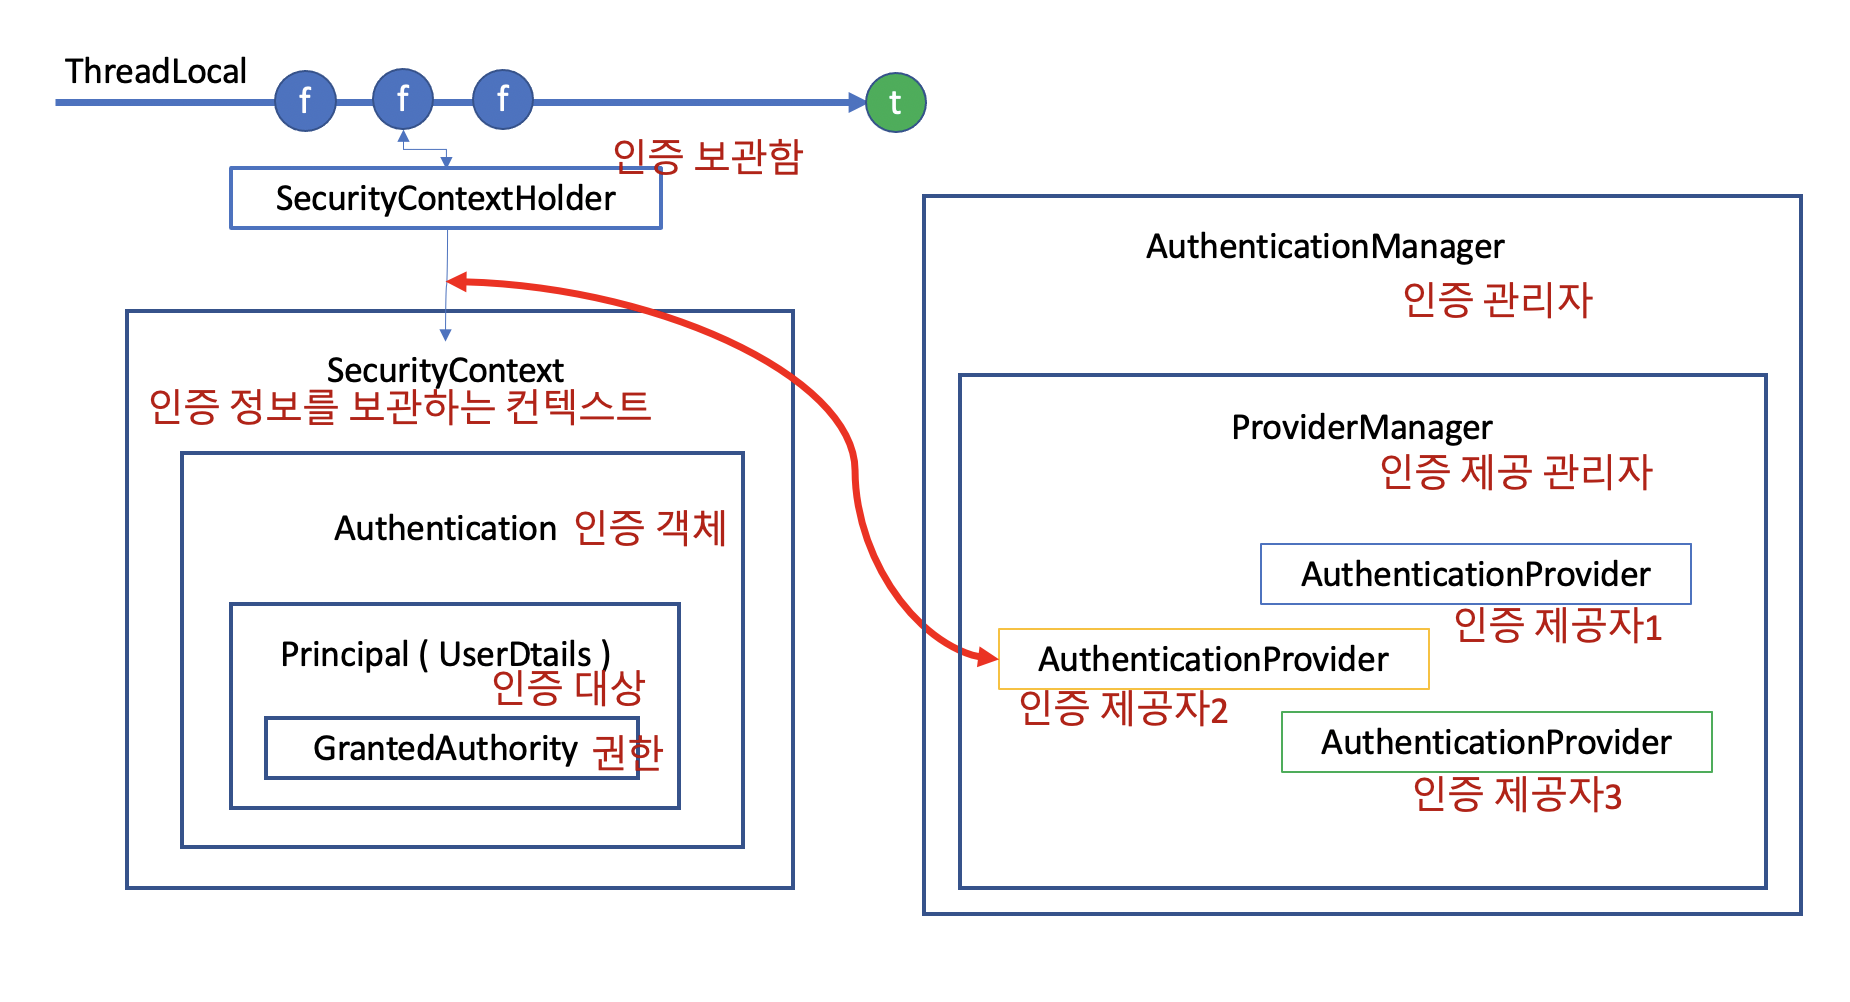
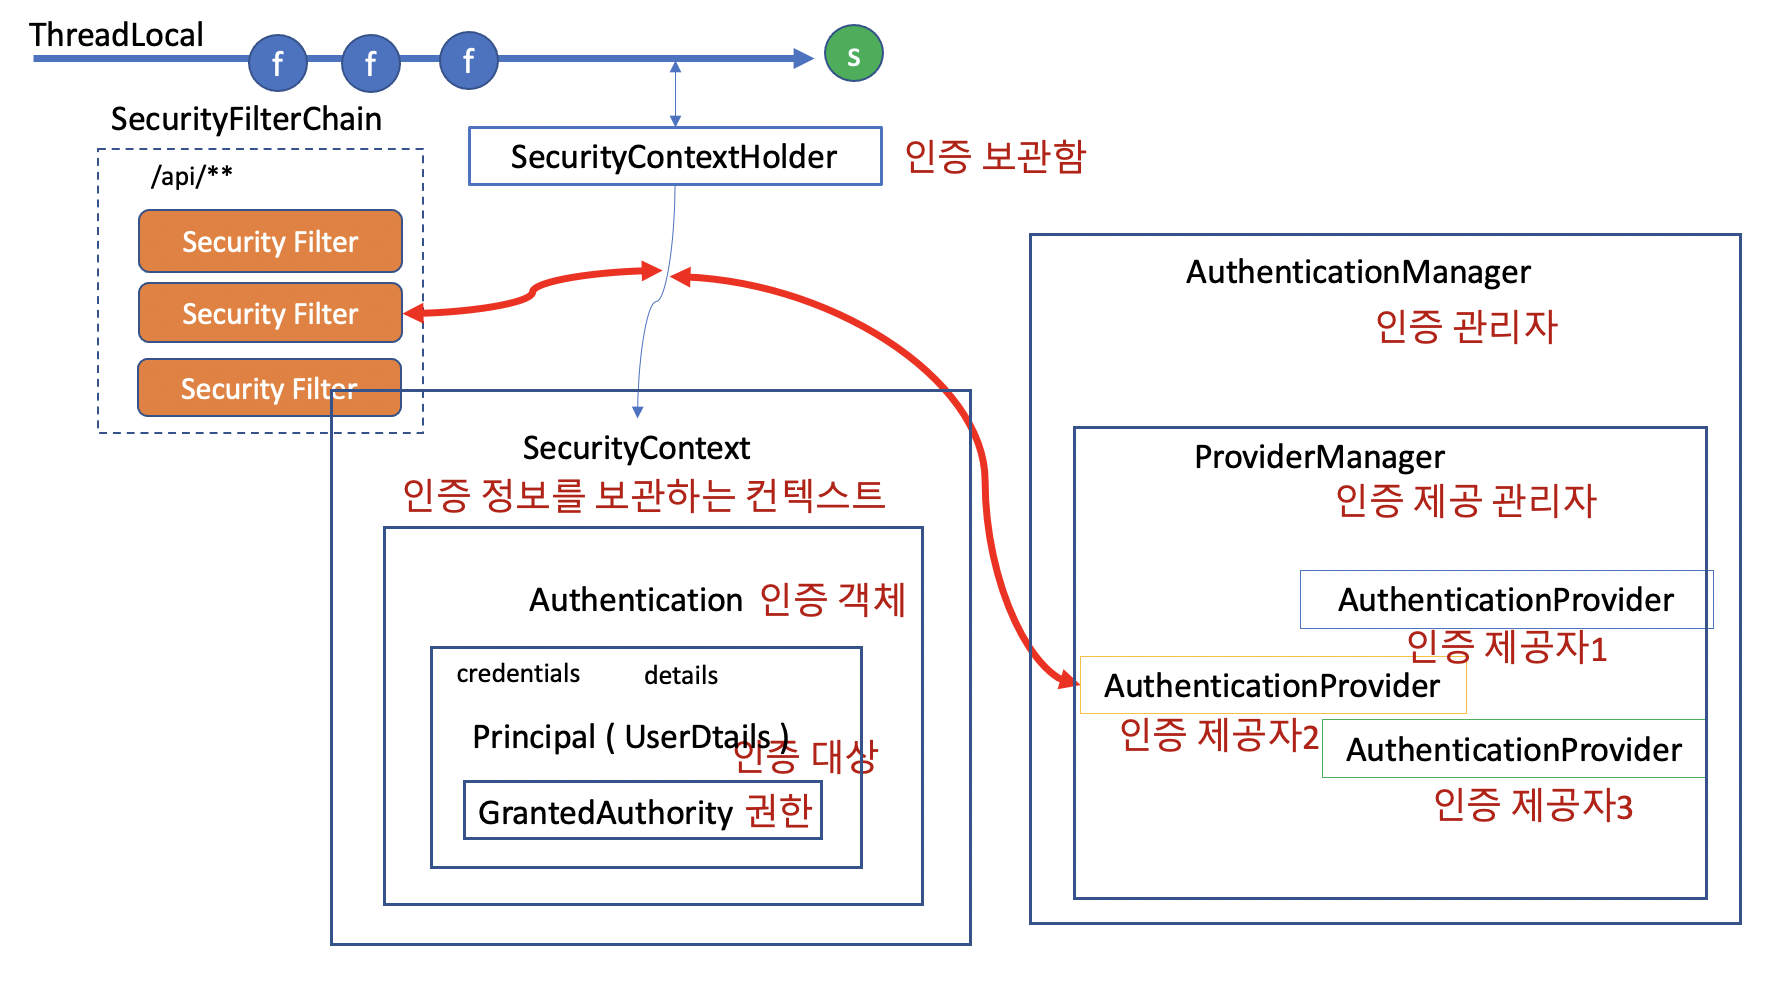
add

Changed region(s): [[0.0, 0.0, 0.9843, 0.9281], [0.1846, 0.9281, 0.2153, 0.9591]]

diff --git a/필터들/스프링시큐리티의큰그림.md b/필터들/스프링시큐리티의큰그림.md
@@ -3,13 +3,14 @@
 ## 서블릿 컨테이너
 
 - 톰켓과 괕은 웹 애플리케이션을 서블릿 컨테이너라고 부르는데, 이런 웹 애플리케이션(J2EE Application)은 기본적으로 필터와 서블릿으로 구성되어 있다.
-  ![서블릿컨테이너](../images/fig-1-servlet-container.png)
+  <img src="../images/fig-1-servlet-container.png" style="max-width:600px;width:100%;" />
+
 - 필터는 체인처럼 엮여있기 때문에 필터 체인이라고도 불리는데, 모든 request 는 이 필터 체인을 반드시 거쳐야만 서블릿 서비스에 도착하게 되어 있다.
 
 ## 스프링 시큐리티의 큰 그림
 
 - 그래서 스프링 시큐리티는 DelegatingFilterProxy 라는 필터를 만들어 메인 필터체인에 끼워넣고, 그 아래 다시 SecurityFilterChain 그룹을 등록한다.
-  ![스프링 시큐리티의 큰 그림](../images/fig-2-spring-big-picture.png)
+  <img src="../images/fig-2-spring-big-picture.png" style="max-width:600px;width:100%;" />
 
 - 이 필터체인은 반드시 한개 이상이고, url 패턴에 따라 적용되는 필터체인을 다르게 할 수 있다. 본래의 메인 필터를 반드시 통과해야만 서블릿에 들어갈 수 있는 단점을 보완하기 위해서 필터체인 Proxy 를 둔 것이다.
 -
@@ -17,7 +18,7 @@
 ## 시큐리티 필터들
 
 - 이 필터체인에는 다양한 필터들이 들어간다.
-  ![스프링 시큐리티의 큰 그림](../images/fig-4-filters.png)
+  <img src="../images/fig-4-filters.png" style="max-width:600px;width:100%;" />
 
 - 각각의 필터는 단일 필터 단일 책임(?) 원칙 처럼, 각기 서로 다른 관심사를 해결한다. 예를 들면 아래와 같다.
   - _HeaderWriterFilter_ : Http 해더를 검사한다. 써야 할 건 잘 써있는지, 필요한 해더를 더해줘야 할 건 없는가?
@@ -27,12 +28,33 @@
   - _UsernamePasswordAuthenticationFilter_ : username / password 로 로그인을 하려고 하는가? 만약 로그인이면 여기서 처리하고 가야 할 페이지로 보내 줄께.
   - _ConcurrentSessionFilter_ : 여거저기서 로그인 하는걸 허용할 것인가?
   - _BearerTokenAuthenticationFilter_ : Authentication 해더에 Bearer 토큰이 오면 인증 처리 해줄께.
-  - _BasicAuthenticationFilter_ : Authentication에 Basic 토큰을 주면 검사해서 인증처리 해줄께.
+  - _BasicAuthenticationFilter_ : Authentication 해더에 Basic 토큰을 주면 검사해서 인증처리 해줄께.
   - _RequestCacheAwareFilter_ : 방금 요청한 request 이력이 다음에 필요할 수 있으니 캐시에 담아놓을께.
-  - _SecurityContextHolderAwareRequestFilter_ :
+  - _SecurityContextHolderAwareRequestFilter_ : 보안 관련 Servlet 3 스펙을 지원하기 위한 필터라고 한다.(?)
   - _RememberMeAuthenticationFilter_ : 아직 Authentication 인증이 안된 경우라면 RememberMe 쿠키를 검사해서 인증 처리해줄께
   - _AnonymouseAuthenticationFilter_ : 아직도 인증이 안되었으면 너는 Anonymouse 사용자야
-  - _SessionManagementFilter_ :
+  - _SessionManagementFilter_ : 서버에서 지정한 세션정책을 검사할께.
   - _ExcpetionTranslationFilter_ : 나 이후에 인증이나 권한 예외가 발생하면 내가 잡아서 처리해 줄께.
   - _FilterSecurityInterceptor_ : 여기까지 살아서 왔다면 인증이 있다는 거니, 니가 들어가려고 하는 request 에 들어갈 자격이 있는지 그리고 리턴한 결과를 너에게 보내줘도 되는건지 마지막으로 내가 점검해 줄께.
+  - 그 밖에... OAuth2 나 Saml2, Cas, X509 등에 관한 필터들도 있다.
 - 필터는 넣거나 뺄 수 있고 순서를 조절할 수 있다. (이때 필터의 순서가 매우 critical 할 수 있기 때문에 기본 필터들은 그 순서가 어느정도 정해져 있다.)
+
+---
+
+## Authentication
+
+- 필터들 중에 일부 필터는 인증 정보에 관여한다. 이들 필터가 하는 일은 AuthenticationManager 를 통해 Authentication 을 인증하고 그 결과를 SecurityContextHolder 에 넣어주는 일이다.
+
+  - UsernamePasswordAuthenticationFilter
+  - BearerTokenAuthenticationFilter
+  - BasicAuthenticationFilter
+  - OAuth2LoginAuthenticationFilter
+    <img src="../images/fig-3-authentication.png" style="max-width:600px;width:100%;" />
+
+- Authentication 을 제공(Provide) 하는 인증제공자는 여러개가 동시에 존재할 수 있고, 인증 방식에 따라 ProviderManager 도 복수로 존재할 수 있다.
+- Authentication 은 인터페이스로 아래와 같은 정보들을 갖고 있다.
+  - _Set&lt;GrantedAuthority&gt; authorities_ : 인증된 권한 정보
+  - _principal_ : 인증 대상에 관한 정보. 주로 UserDetails 객체가 온다.
+  - _credentials_ : 인증 확인을 위한 정보. 주로 비밀번호가 오지만, 인증 후에는 보안을 위해 삭제한다.
+  - _details_ : 그 밖에 필요한 정보. IP, 세션정보, 기타 인증요청에서 사용했던 정보들.
+  - _boolean authenticated_ : 인증되었는가?
